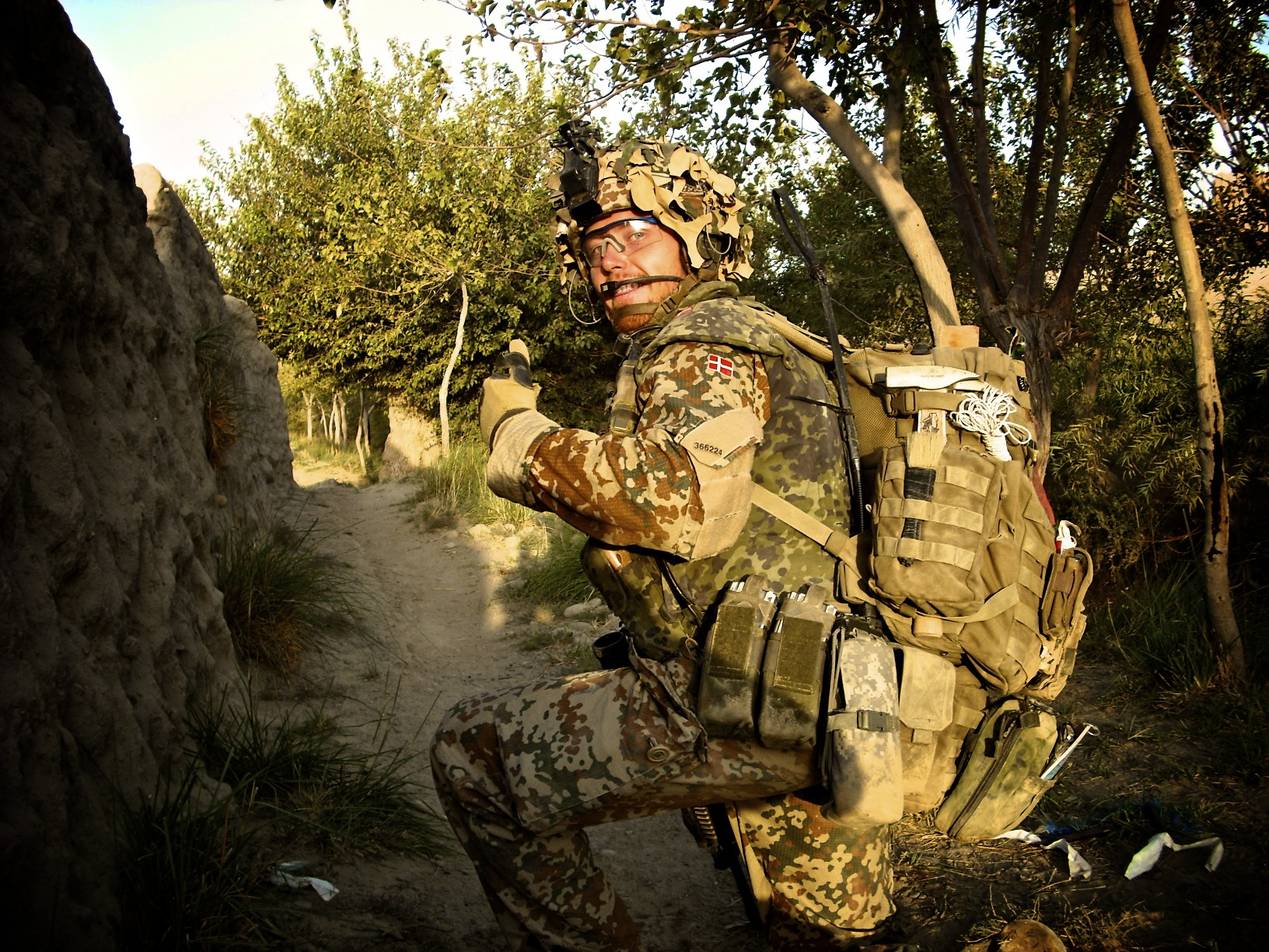
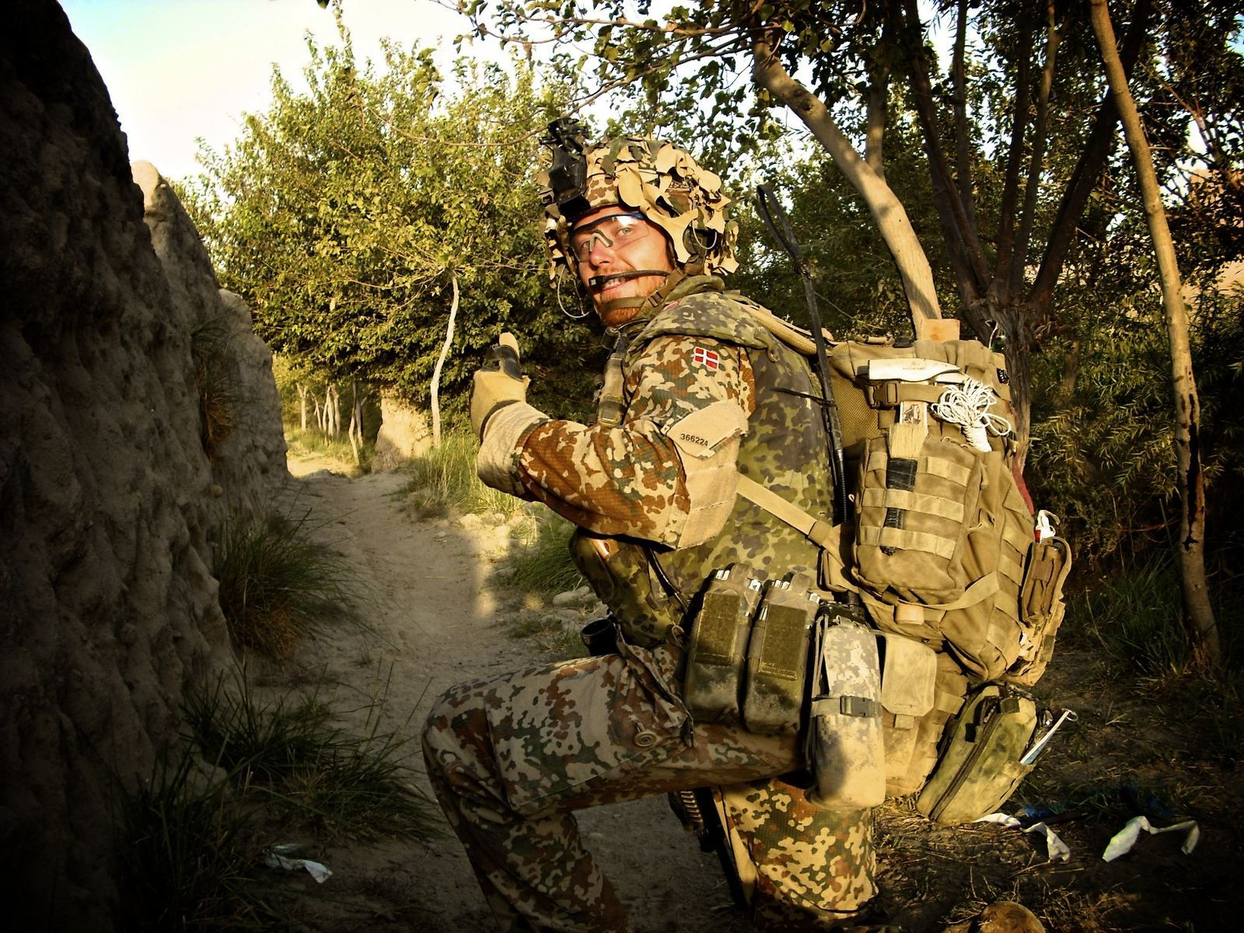
perf+a11y+seo: launch-ready audit af vaken.dk
Sikkerhed + accessibility + performance + SEO-fixes efter audit:

Performance — billeder:
- images/dan.jpg: 754 KB -> 433 KB (43% mindre)
- images/dan-alt.jpg: 688 KB -> 251 KB (63% mindre)
- Total asset-reduktion: 1442 KB -> 684 KB (52% mindre)
- Nyt optimize_images.py script + originals backup i .gitignore

Accessibility:
- Lang-btns har nu aria-label (Dansk/Norsk/Svenska/Suomi/English)
- lang-attribut pr. knap (da/nb/sv/fi/en) for korrekt skærmlæser-udtale
- aria-label på lang-nav udvidet til tosproget ('Sprogvalg / Language')

SEO (kritisk for 5-sprog-site):
- <link rel="canonical"> på alle tre sider
- <link rel="alternate" hreflang="..."> for alle 5 sprog på index.html
- x-default hreflang peger på root (ingen forced redirect)
- privacy.html + terms.html fik engelsk title (for engelsk-talende marked)

Ingen ændringer til signup-endpoint eller email-handling i denne commit.
Rate-limiting + CSP bør håndteres på Cloudflare-niveau separat.

diff --git a/index.html b/index.html
@@ -19,6 +19,13 @@
     <meta name="twitter:title" content="Vaken — Pust og Fokus">
     <meta name="twitter:description" content="En ring der trækker vejret med dig. Bygget af en veteran der ved det virker.">
     <meta name="twitter:image" content="https://vaken.dk/og-image.png">
+    <link rel="canonical" href="https://vaken.dk/">
+    <link rel="alternate" hreflang="da" href="https://vaken.dk/?lang=da">
+    <link rel="alternate" hreflang="no" href="https://vaken.dk/?lang=no">
+    <link rel="alternate" hreflang="sv" href="https://vaken.dk/?lang=sv">
+    <link rel="alternate" hreflang="fi" href="https://vaken.dk/?lang=fi">
+    <link rel="alternate" hreflang="en" href="https://vaken.dk/?lang=en">
+    <link rel="alternate" hreflang="x-default" href="https://vaken.dk/">
     <link rel="preconnect" href="https://fonts.googleapis.com">
     <link rel="preconnect" href="https://fonts.gstatic.com" crossorigin>
     <link href="https://fonts.googleapis.com/css2?family=Inter:wght@300;400;500;600&display=swap" rel="stylesheet">
@@ -27,12 +34,12 @@
 <body>
 
     <!-- Language switcher -->
-    <nav class="lang-nav" aria-label="Sprogvalg">
-        <button class="lang-btn active" data-lang="da">DA</button>
-        <button class="lang-btn" data-lang="no">NO</button>
-        <button class="lang-btn" data-lang="sv">SV</button>
-        <button class="lang-btn" data-lang="fi">FI</button>
-        <button class="lang-btn" data-lang="en">EN</button>
+    <nav class="lang-nav" aria-label="Sprogvalg / Language">
+        <button class="lang-btn active" data-lang="da" aria-label="Dansk" lang="da">DA</button>
+        <button class="lang-btn" data-lang="no" aria-label="Norsk" lang="nb">NO</button>
+        <button class="lang-btn" data-lang="sv" aria-label="Svenska" lang="sv">SV</button>
+        <button class="lang-btn" data-lang="fi" aria-label="Suomi" lang="fi">FI</button>
+        <button class="lang-btn" data-lang="en" aria-label="English" lang="en">EN</button>
     </nav>
 
     <!-- Hero -->

diff --git a/privacy.html b/privacy.html
@@ -3,19 +3,20 @@
 <head>
     <meta charset="UTF-8">
     <meta name="viewport" content="width=device-width, initial-scale=1.0">
-    <title>Privatlivspolitik — Vaken</title>
+    <title>Privacy Policy — Vaken</title>
+    <link rel="canonical" href="https://vaken.dk/privacy.html">
     <link rel="preconnect" href="https://fonts.googleapis.com">
     <link rel="preconnect" href="https://fonts.gstatic.com" crossorigin>
     <link href="https://fonts.googleapis.com/css2?family=Inter:wght@300;400;500;600&display=swap" rel="stylesheet">
     <link rel="stylesheet" href="style.css">
 </head>
 <body>
-    <nav class="lang-nav" aria-label="Sprogvalg">
-        <button class="lang-btn active" data-lang="da">DA</button>
-        <button class="lang-btn" data-lang="no">NO</button>
-        <button class="lang-btn" data-lang="sv">SV</button>
-        <button class="lang-btn" data-lang="fi">FI</button>
-        <button class="lang-btn" data-lang="en">EN</button>
+    <nav class="lang-nav" aria-label="Sprogvalg / Language">
+        <button class="lang-btn active" data-lang="da" aria-label="Dansk" lang="da">DA</button>
+        <button class="lang-btn" data-lang="no" aria-label="Norsk" lang="nb">NO</button>
+        <button class="lang-btn" data-lang="sv" aria-label="Svenska" lang="sv">SV</button>
+        <button class="lang-btn" data-lang="fi" aria-label="Suomi" lang="fi">FI</button>
+        <button class="lang-btn" data-lang="en" aria-label="English" lang="en">EN</button>
     </nav>
 
     <section class="legal-page">

diff --git a/terms.html b/terms.html
@@ -3,19 +3,20 @@
 <head>
     <meta charset="UTF-8">
     <meta name="viewport" content="width=device-width, initial-scale=1.0">
-    <title>Vilkår — Vaken</title>
+    <title>Terms — Vaken</title>
+    <link rel="canonical" href="https://vaken.dk/terms.html">
     <link rel="preconnect" href="https://fonts.googleapis.com">
     <link rel="preconnect" href="https://fonts.gstatic.com" crossorigin>
     <link href="https://fonts.googleapis.com/css2?family=Inter:wght@300;400;500;600&display=swap" rel="stylesheet">
     <link rel="stylesheet" href="style.css">
 </head>
 <body>
-    <nav class="lang-nav" aria-label="Sprogvalg">
-        <button class="lang-btn active" data-lang="da">DA</button>
-        <button class="lang-btn" data-lang="no">NO</button>
-        <button class="lang-btn" data-lang="sv">SV</button>
-        <button class="lang-btn" data-lang="fi">FI</button>
-        <button class="lang-btn" data-lang="en">EN</button>
+    <nav class="lang-nav" aria-label="Sprogvalg / Language">
+        <button class="lang-btn active" data-lang="da" aria-label="Dansk" lang="da">DA</button>
+        <button class="lang-btn" data-lang="no" aria-label="Norsk" lang="nb">NO</button>
+        <button class="lang-btn" data-lang="sv" aria-label="Svenska" lang="sv">SV</button>
+        <button class="lang-btn" data-lang="fi" aria-label="Suomi" lang="fi">FI</button>
+        <button class="lang-btn" data-lang="en" aria-label="English" lang="en">EN</button>
     </nav>
 
     <section class="legal-page">

diff --git a/tools/optimize_images.py b/tools/optimize_images.py
@@ -1,0 +1,59 @@
+"""Optimize vaken.dk images for web.
+
+Reduces JPEG quality and max-dimension to keep file sizes manageable
+without noticeable visual degradation. Originals bevares i images/original/
+som backup.
+"""
+from PIL import Image
+from pathlib import Path
+import shutil
+
+SRC_DIR = Path(__file__).resolve().parent.parent / "images"
+ORIG_DIR = SRC_DIR / "original"
+ORIG_DIR.mkdir(exist_ok=True)
+
+TARGETS = [
+    # (filename, max_width, quality)
+    ("dan.jpg", 1600, 78),
+    ("dan-alt.jpg", 1600, 78),
+]
+
+for name, max_w, quality in TARGETS:
+    src = SRC_DIR / name
+    if not src.exists():
+        print(f"SKIP: {name} — findes ikke")
+        continue
+
+    # Backup original hvis ikke allerede gemt
+    backup = ORIG_DIR / name
+    if not backup.exists():
+        shutil.copy2(src, backup)
+        print(f"Backed up: {backup.name}")
+
+    original_size = src.stat().st_size // 1024
+
+    with Image.open(src) as img:
+        # Convert to RGB (JPEG does not support RGBA)
+        if img.mode != "RGB":
+            img = img.convert("RGB")
+
+        # Resize if wider end max_w
+        if img.width > max_w:
+            ratio = max_w / img.width
+            new_size = (max_w, int(img.height * ratio))
+            img = img.resize(new_size, Image.LANCZOS)
+
+        # Save optimized
+        img.save(
+            src,
+            "JPEG",
+            quality=quality,
+            optimize=True,
+            progressive=True,
+        )
+
+    new_size = src.stat().st_size // 1024
+    reduction = int((1 - new_size / original_size) * 100)
+    print(f"{name}: {original_size} KB -> {new_size} KB ({reduction}% smaller)")
+
+print("\nDone. Originals er i images/original/ som backup.")
